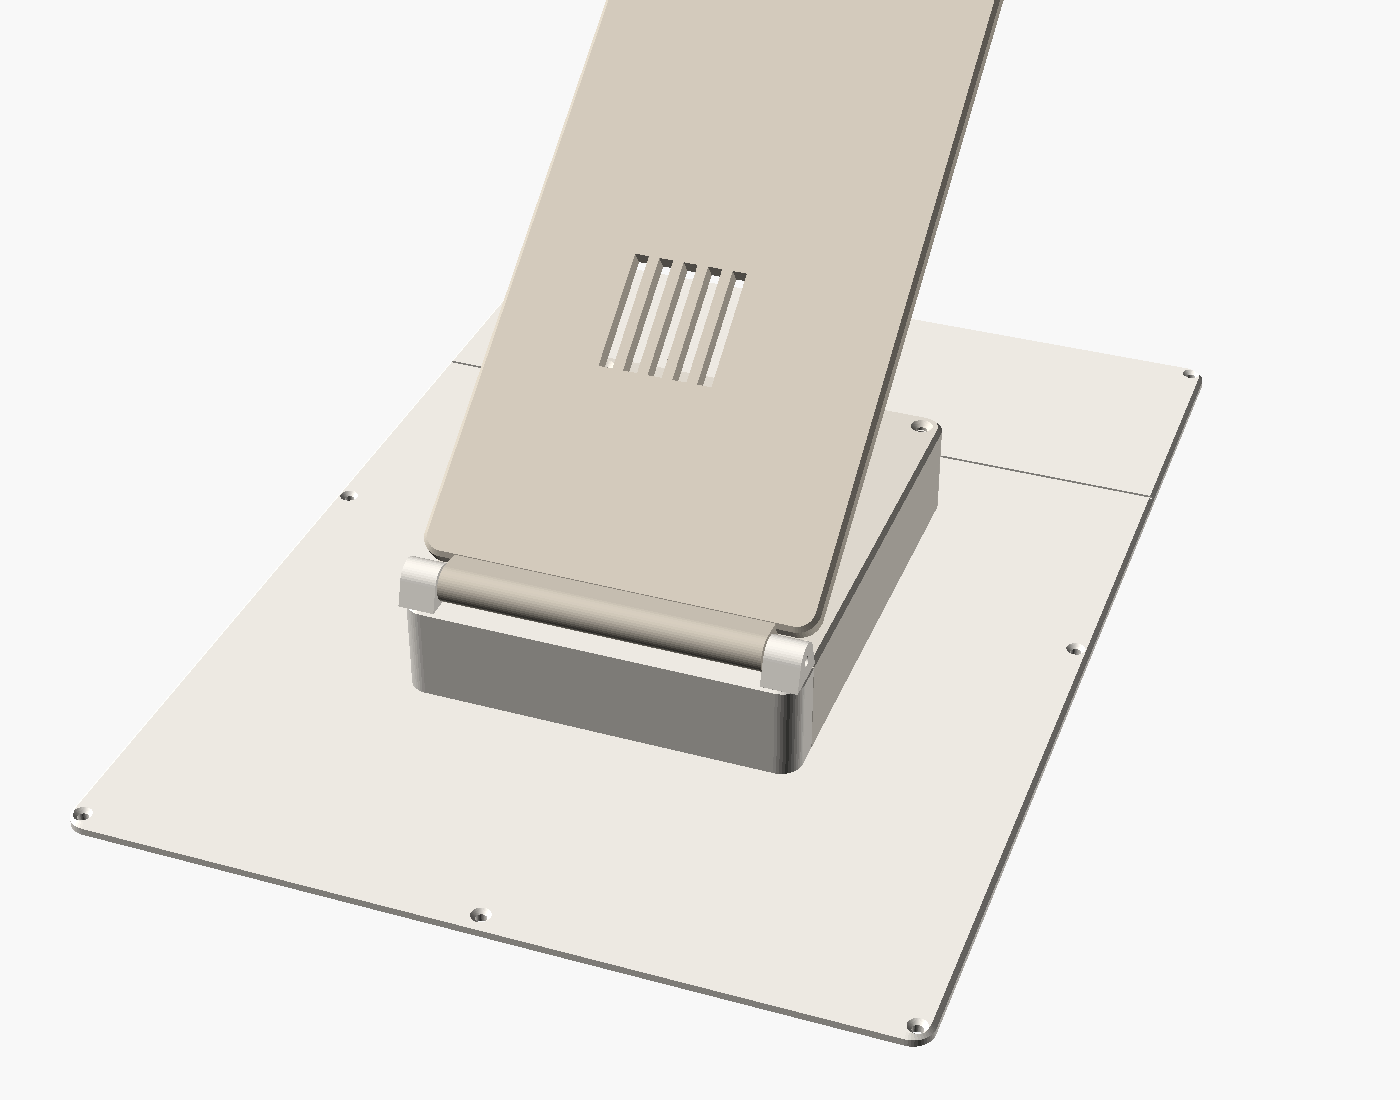
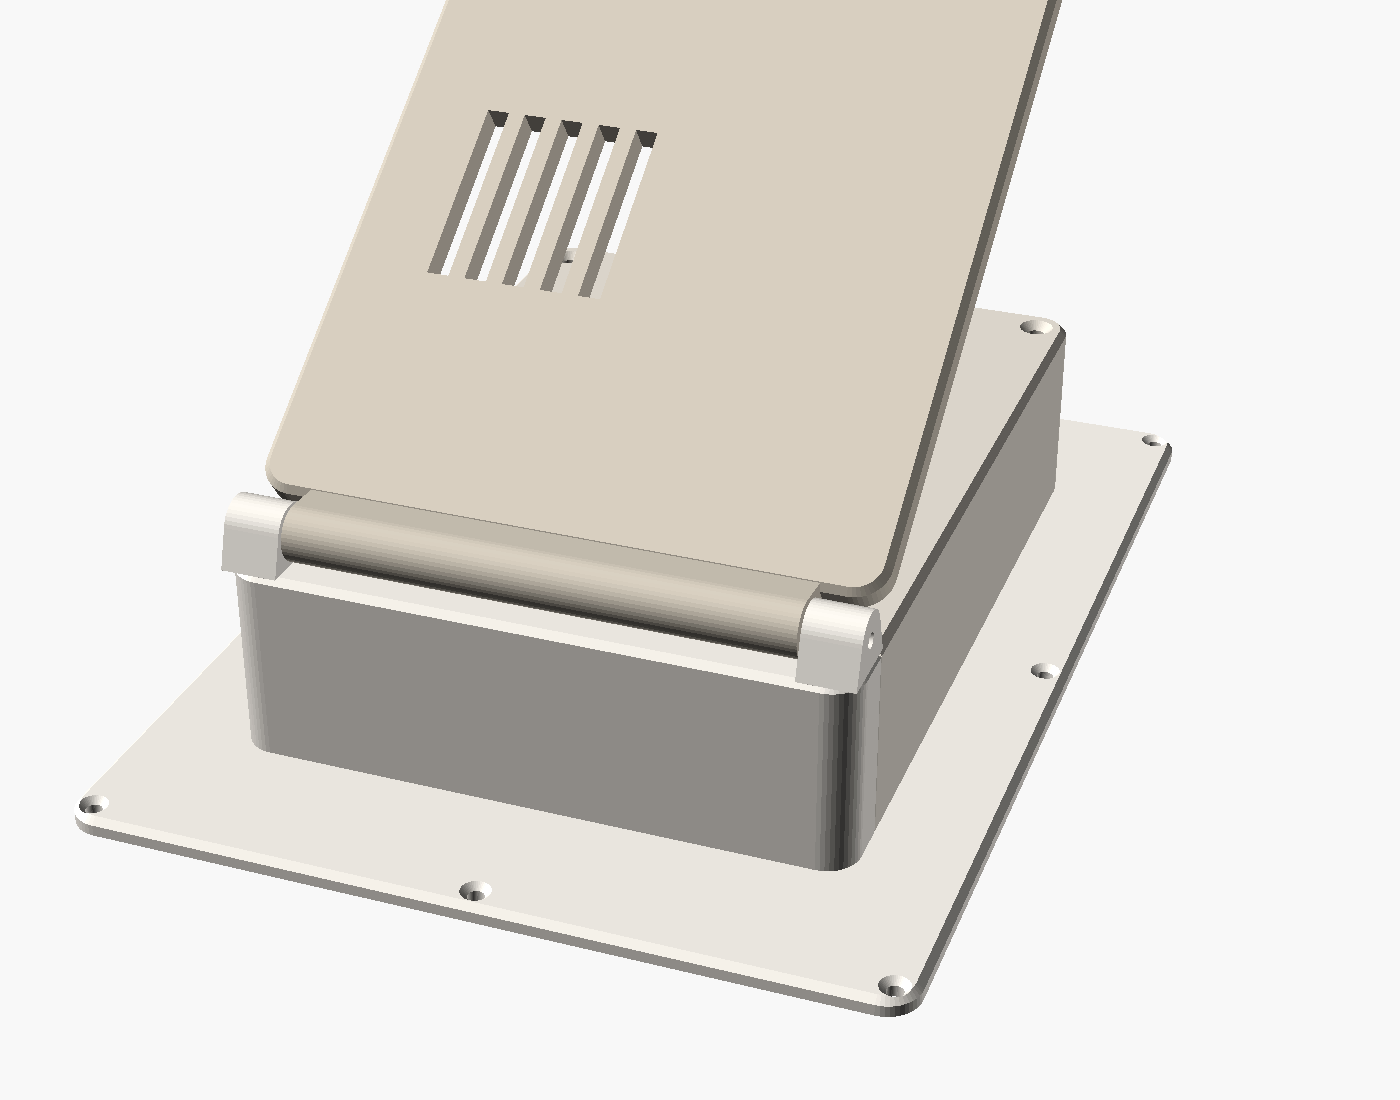
Frame back for the BGA Galant 13x18 frame and the Waveshare 7.3" panel
- Printed panel tray holds the thin glass panel centred and fills the 9 mm recess
- Panel's flat cable comes up through a slot into the spine, which now slopes down
  so the frame can lean back on its stand; pod raised clear of the table
- Pod deeper for the driver HAT, fan moved clear of it; plate prints in one piece
- README: build steps, assembly order and shopping list for this setup

diff --git a/README.md b/README.md
@@ -10,14 +10,14 @@ names and a Swedish poster. Everything that depends on location sits in one regi
 file, so you can make a list for anywhere else (see [Other locations](#other-locations)).
 
 ```
- BALCONY                 camera cable           BEDROOM (hidden behind the frame)
- ┌──────────────────┐   ─────────────────────▶ ┌────────────────────────────────┐
- │ Camera Module 3  │   (CSI, CSI→HDMI kit,    │ Raspberry Pi 4 (or 5)          │
- │ Wide in a        │    or USB webcam)        │  gibbird cam:   motion → crop  │
- │ weatherproof box │                          │                 → classify     │
- └──────────────────┘                          │  gibbird frame: poster → Inky  │
-                                               │ ribbon cable → Inky 13.3" panel│
-                                               └────────────────────────────────┘
+ BALCONY (outside the office window)            OFFICE (hidden behind the frame)
+ ┌────────────────────────┐  2–3 m USB cable   ┌──────────────────────────────────┐
+ │ IMX678 USB camera, 123°│ ─────────────────▶ │ Raspberry Pi 4                   │
+ │ in a printed housing,  │                    │  gibbird cam:   motion → crop    │
+ │ strapped to a railing  │                    │                 → classify       │
+ │ post                   │                    │  gibbird frame: poster → driver  │
+ └────────────────────────┘                    │  HAT → Waveshare 7.3" e-ink panel│
+                                               └──────────────────────────────────┘
 ```
 
 ## Step-by-step
@@ -26,25 +26,25 @@ file, so you can make a list for anywhere else (see [Other locations](#other-loc
 camera, feeder and cables go (office window + balcony), plus the weatherproof camera
 housing (`hardware/camera_housing.scad`).
 
-1. **Buy the parts** (list below). Also get a feeder or perch about 0.5–1.5 m from
-   where the camera will sit. The classifier needs the bird to fill a good part of
-   the picture. A bird flying past at 5 m will not be identified.
-2. **Pick and measure the frame.** Measure its outer size, the rabbet (the opening on
-   the back where the display goes), how deep the display sits below the back face,
-   and where the display's 40-pin header is.
-3. **Print the back.** Enter your measurements in `hardware/frame_back.scad` and export
-   `back_lower`, `back_upper` and `stand` (see [3D print](#3d-printed-back)).
+1. **Buy the parts** (list below). Also get a feeder for the railing and place it
+   about 1.2–1.5 m from the camera. The classifier needs the bird to fill a good part
+   of the picture.
+2. **Frame:** BGA "Ram Galant Glas" 13×18 cm. The 3D model's defaults match it. If you
+   use another frame, measure its outer size, the recess (`rabbet`) and its depth.
+3. **Print** `back`, `panel_tray`, `pod_cover` and `stand` from `hardware/frame_back.scad`,
+   and `body`, `lid` and `bracket` from `hardware/camera_housing.scad`
+   (see [3D print](#3d-printed-back)).
 4. **Flash the SD card** with Raspberry Pi Imager → *Raspberry Pi OS Lite (64-bit)*.
    In the Imager settings, set Wi-Fi, enable SSH, and use the hostname `birdframe`.
-5. **Build the frame.** Put the display face-down in the frame with foam strips on
-   top. Take the Pi 4 out of its aluminium case (keep the stick-on heatsinks) and screw
-   it onto the four bosses in the printed back.
-   Plug the ribbon cable into the display header, then screw the back onto the frame
-   and plug the other end into the Pi. Run the power and camera cables out through the
-   hood's right wall, along the clips, and under the stand's foot.
-6. **Mount the camera** in a weatherproof box, high in a corner so it sees the whole
-   balcony, with the feeder no more than about 2 m away. Run the cable inside along
-   the balcony door seal and into the hood.
+5. **Build the frame.** Glass → passepartout → display panel → printed panel tray, in
+   that order, into the frame. Feed the panel's flat cable through the tray's slot.
+   Take the Pi 4 out of its aluminium case (keep the stick-on heatsinks), screw it onto
+   the four bosses in the printed back, and plug the driver HAT onto it. Then connect
+   the flat cable to the HAT and screw the back onto the frame. Power and camera cables
+   leave through the spine at the bottom edge.
+6. **Mount the camera** on a railing post next to the office window, with two hose
+   clamps (see [docs/INSTALLATION.md](docs/INSTALLATION.md)). Run the cable along the
+   window frame, in through the window seal, and up the spine.
 7. **Install the software** ([Software](#software)). Use `gibbird classify` on a few
    photos and check the web page at `http://birdframe.local:8080`.
 8. **Calibrate** at `http://birdframe.local:8080/calibrate` ([below](#zones-and-calibration)).
@@ -56,8 +56,8 @@ This is the current build: a Pi 4 behind a Waveshare 7.3" e-ink panel, and an IM
 USB camera outside the office window. Prices are from amazon.se, October 2026.
 
 **Already owned:** Raspberry Pi 4 Model B with its fan and heatsinks, the official Pi 4
-USB-C power supply, a microSD 32 GB High Endurance card, and a picture frame. The 3D
-model still has to be sized for that frame.
+USB-C power supply, a microSD 32 GB High Endurance card, and the BGA "Ram Galant Glas"
+13×18 cm frame (walnut).
 
 **Main parts**
 
@@ -75,7 +75,8 @@ model still has to be sized for that frame.
 | Screw kit M2.5 + M3 (stainless) | Pi 4× M2.5×6, pod cover 4× M3×10 countersunk, stand 2× M3×16 | 100–200 kr |
 | 6× wood screws 2.5×10 mm countersunk | Back plate to the frame (pre-drill 1.5 mm) | 30–50 kr |
 | Self-adhesive foam/felt pads, 2–3 mm | Support the thin glass display panel evenly | 50–80 kr |
-| PLA or PETG filament, ~300 g | For the indoor frame back | – |
+| PLA or PETG filament, ~300 g | For the indoor frame back and panel tray | – |
+| Passepartout, white or black, 13×18 cm outer, window about **95×159 mm** | Hides the panel's border; window just inside the image area (160×96 mm). BGA's made-to-measure mat (179,90 kr), or cut black card yourself. Measure the panel first | 0–180 kr |
 
 **For the camera outside**
 
@@ -107,42 +108,46 @@ Customizer panel.
 
 The back is one clean central column, and nothing else is visible:
 
-- **Pod.** Hides the Pi (4 or 5). The Pi screws onto four bosses on the plate, next
-  to an opening over the display's 40-pin header, and a short ribbon cable joins them
-  inside. The pod **cover** is a separate part, printed roof-down for a smooth finish
-  with no sagging spans. It comes off with 4 screws that are hidden under the stand,
-  so you can reach the Pi without taking the back off the frame.
-- **Fan.** A 30 mm fan mount and grille in the cover's roof, over the processor. Air
-  comes in through slots in the cover's bottom wall.
-- **Spine.** A hollow channel from the pod down to the bottom edge. The power and
-  camera cables run inside it, so no clips, zip ties or loose cables show. Use a
-  **90° (angled) USB-C power cable**: there are 14 mm beside the Pi for the plug.
+- **Inside the frame:** glass → passepartout → **display panel** → **panel tray**. The
+  tray is printed and holds the thin glass panel centred, supports its whole back
+  (put a thin layer of foam in its pocket), and fills the rest of the 9 mm recess, so
+  the back plate presses on it when screwed on.
+- **Pod.** Hides the Pi (4 or 5) with the Waveshare driver HAT. The Pi screws onto four
+  bosses on the plate. The pod **cover** is a separate part, printed roof-down for a
+  smooth finish with no sagging spans. It comes off with 4 screws that are hidden
+  under the stand, so you can reach the Pi without taking the back off the frame.
+- **Fan.** A 30 mm fan mount and grille in the cover's roof, placed clear of the
+  driver HAT. Air comes in through slots in the cover's bottom wall.
+- **Spine.** A hollow channel from the pod down to the bottom edge, sloping down so the
+  frame can lean back on its stand without the pod touching the table. The panel's
+  flat cable comes up through a slot into the spine and runs inside it to the HAT. The
+  power and camera cables leave through the spine at the bottom edge. Use a **90° USB‑C
+  adapter**: there are 20 mm beside the Pi for the plug.
 - **Stand.** A solid flap that closes over the pod and spine, so from behind the frame
   looks like a slab with one neat block on it. It has vent slots over the fan. It
   pivots on two M3×16 screws in towers at the top of the pod, and a stop tab sets the
   angle (`stand_open`, default 35°).
-- **Plate.** Rounded corners and softened edges. It screws onto the frame with 6 small
-  countersunk screws. On a 256 mm print bed it's printed in two halves, joined by a
-  glued lap joint. The joint lines up with a thin groove, so it reads as a design line
-  rather than a seam.
+- **Plate.** 147×197 mm with rounded corners and softened edges, printed in one piece.
+  It screws onto the frame with 6 small countersunk screws (2.5×10, pre-drill 1.5 mm).
+  For a bigger frame, set `split_y` and print it in two glued halves.
 
-**Assembly:** glue the plate halves → screw the Pi onto the bosses → plug the ribbon
-into the Pi → thread the power and camera cables up through the spine and plug them
-in → put the display face-down in the frame with foam strips → plug the ribbon into
-the display header, lower the plate and screw it to the frame → screw the fan into
-the cover and plug its USB lead into the Pi → screw on the cover (4× M3×10) → fit
-the stand (2× M3×16).
+**Assembly:** panel and tray into the frame (flat cable through the tray's slot) →
+screw the Pi onto the bosses → plug the driver HAT onto the Pi (with its extension
+header) → thread the power and camera cables up through the spine and plug them in
+→ connect the panel's flat cable to the HAT → screw the back onto the frame → screw
+the fan into the cover and plug its USB lead into the Pi → screw on the cover
+(4× M3×10) → fit the stand (2× M3×16).
 
-Measure these before printing: `frame_w/h`, `rabbet_w/h`, `display_recess`, and the
-display header centre `hdr_x/hdr_y`. The header centre is measured from the bottom-left
-of the rabbet, looking at the **back**, with the frame in portrait. The default
-(62, 137) is only an estimate from the video. The Pi's position is worked out from
-the header position. The file refuses to render if the display header ends up outside the pod or under
-the Pi, or if the seam runs through the pod. The `stl/` folder has exports made with the default numbers,
-so treat them as a test print only.
+**Check when the display arrives:** the panel's outline (`panel`, default 111.2×170.2 mm),
+its thickness, which edge the flat cable leaves from (`fpc_edge`, default bottom), and
+the cable's width and length. If the cable is too short to reach the driver HAT, a
+24-pin 0.5 mm FPC extension solves it. The file refuses to render if the cable slot
+doesn't open into the spine or pod, if the slot is under the Pi, if the panel doesn't
+fit the frame, or if the fan would sit over the HAT. The `stl/` folder has exports
+made with the default numbers.
 
-No part needs supports: plate halves flat side down, cover roof down, stand pod-side
-down. Use 0.2 mm layers, 3 walls and 15 % infill. PETG handles a warm windowsill
+No part needs supports: plate and panel tray flat side down, cover roof down, stand
+pod-side down. Use 0.2 mm layers, 3 walls and 15 % infill. PETG handles a warm windowsill
 better than PLA. A matte or silk filament in one colour gives the cleanest look.
 
 ## Software
